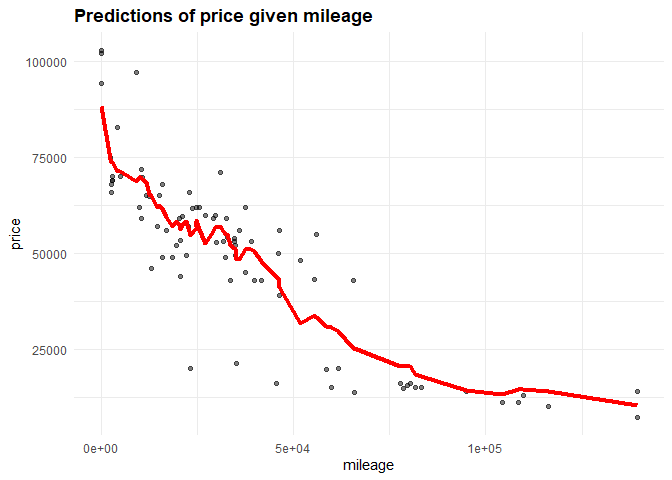
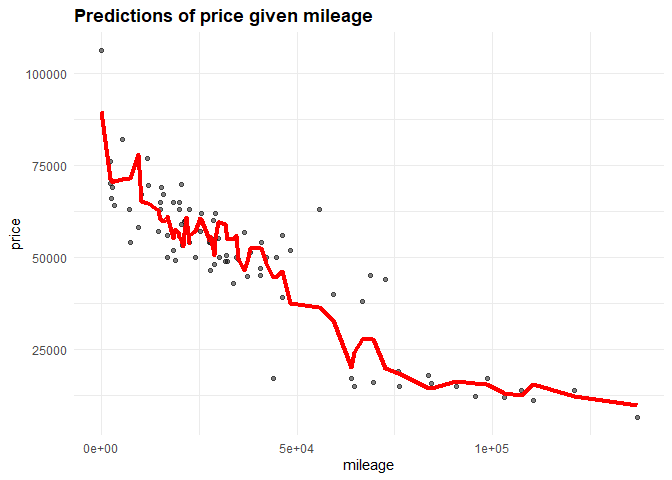
Exercise 1_3

diff --git a/Exercise 1/Chia-Sheng-Tu---Date-Mining---1.md b/Exercise 1/Chia-Sheng-Tu---Date-Mining---1.md
@@ -1,7 +1,8 @@
 ## 1) Data visualization: flights at ABIA
 
 \*\*\*\*Question: What is the best Month to fly in and fly out to Austin
-to minimize delays?\*\*
+to minimize delays?\*\* To find the minimize delay time, set average
+delay time per mile = (ArrDelay + DepDelay + WeatherDelay)/Distance
 
     ## # A tibble: 7 x 2
     ##   Month avg_Delay
@@ -16,7 +17,7 @@ to minimize delays?\*\*
 
 ![](Chia-Sheng-Tu---Date-Mining---1_files/figure-markdown_strict/problem%201-1.png)
 
-**Figure 1:** \#Plot for average delay time per mile bt month
+**Figure 1:** \#Plot for average delay time per mile by month
 
 Figure 1 refers to the best months to fly in and fly out to Austin to
 minimize delays are September and November. September has the lowest
@@ -97,11 +98,11 @@ optimal value of K
 
 **Optimal value of K**
 
-    ## [1] 14
+    ## [1] 7
 
 **RMSE from the Optimal value of K**
 
-    ## [1] 10076.76
+    ## [1] 8823.849
 
 ![](Chia-Sheng-Tu---Date-Mining---1_files/figure-markdown_strict/problem%203_1.4-1.png)
 
@@ -118,11 +119,11 @@ optimal value of K
 
 **Optimal value of K**
 
-    ## [1] 9
+    ## [1] 3
 
 **RMSE from the Optimal value of K**
 
-    ## [1] 16034.36
+    ## [1] 17150.06
 
 ![](Chia-Sheng-Tu---Date-Mining---1_files/figure-markdown_strict/problem%203_2.4-1.png)
 
